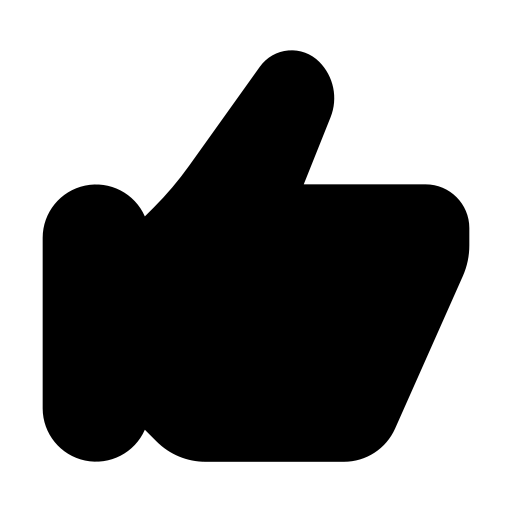
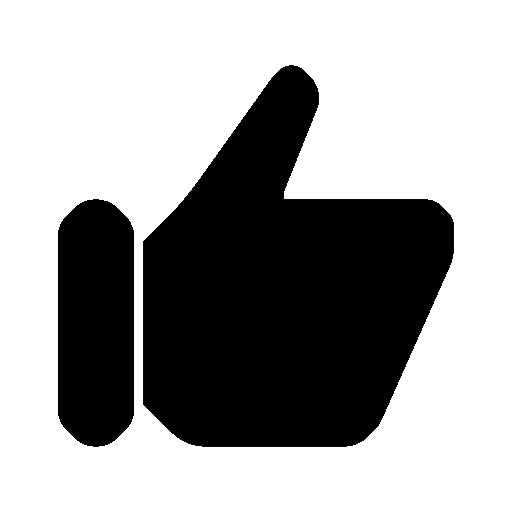
like

Changed region(s): [[0.0625, 0.0938, 0.9375, 0.9062]]

diff --git a/projeto/likesScrip.js b/projeto/likesScrip.js
@@ -5,9 +5,12 @@ function likePost(idPost) {
 function toggleElements(e){
 
     e.children[0].classList.toggle("like-ativo");
+
     if(e.children[0].classList.contains("like-ativo")){
+        e.innerHTML = "<img src='assets/icos/like_ico3.png' class='like like-ativo' ' id='img-like' alt='Like'>"
         e.parentNode.children[1].children[0].innerHTML ++;
     }else{
+        e.innerHTML = "<img src='assets/icos/like_ico1.png' class='like' ' id='img-like' alt='Like'>"
         e.parentNode.children[1].children[0].innerHTML --;
     }
 

diff --git a/projeto/css/commun.css b/projeto/css/commun.css
@@ -286,9 +286,7 @@ main{
     width: 5%;
     margin-left: 2%;
 }
-.like-ativo{
-    background-color: lightblue;
-}
+
 
 .desc{
     width: 100%;

diff --git a/projeto/home.php b/projeto/home.php
@@ -54,9 +54,15 @@ use function CommonMark\Render\HTML;
                                     <p>{$post['1']->getDescricao()}</p>
                                 </div>
                                 <div class='like-botao-desc'>
-                                    <button class='botao-like' onclick='likePost({$post['1']->getId()}); toggleElements(this)'>
-                                    <img src='{$imgLike}' class='like ". ((Like::checkLikePost($post['1']->getId())) ?  'like-ativo' : '') . " ' id='img-like' alt='Like'>
-                                    </button>
+                                    <button class='botao-like' onclick='likePost({$post['1']->getId()}); toggleElements(this)'>";
+
+                                    if(Like::checkLikePost($post['1']->getId())){
+                                        echo "<img src='{$imgLikeGiv}' class='like like-ativo' ' id='img-like' alt='Like'>";
+                                    }else{
+                                        echo "<img src='{$imgLike}' class='like' ' id='img-like' alt='Like'>";
+                                    }
+                                    
+                                    echo "</button>
                                     <a href='postLikes.php?post={$post['1']->getId()}'>";
                                 echo "<span id='numeroLikes'>". Like::countLikesPost($post['1']->getId()) ."</span>";
                                  

diff --git a/projeto/components/assets.php b/projeto/components/assets.php
@@ -15,6 +15,7 @@ $imgProfile = 'assets/icos/user_ico1.png';
 $imgProfileFooter = 'assets/icos/user_ico2.png';
 
 $imgLike = 'assets/icos/like_ico1.png';
+$imgLikeGiv = 'assets/icos/like_ico3.png';
 
 $imgRanking = 'assets/icos/rank_ico2.png';
 
